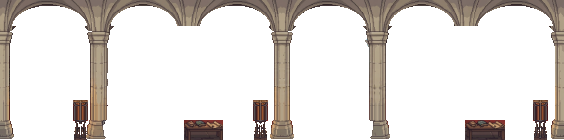
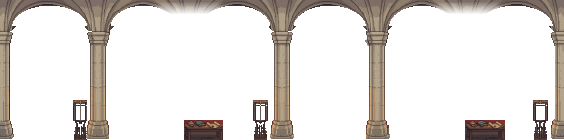
模擬戰鬥: 新增聖教城領(城堡大廳)場景,場景名稱與順序改為大地圖
- bg_09/fg_09 定稿(前景拱廊淡出、柱腳補齊、火盆挖空、地毯重鋪、火爐前地面柔化)
- 火焰/光暈由程式畫,前景火焰在前景層後方
- 場景:怪物森林/魔晶礦洞/塵嵐荒漠/幽暗墓穴/凜冬雪山/聖教城領/熔岩火原/惡魔王城

Claude-Session: https://claude.ai/code/session_01VgWDma9wRVh94nUCbzKnsT

diff --git a/battle/index.html b/battle/index.html
@@ -42,7 +42,7 @@ button{font:inherit;color:inherit}
   <p class="hint">預覽模式：只是看看戰鬥畫面，不會消耗體力，也不會獲得任何獎勵。</p>
   <div id="loading">讀取資料中…</div>
   <div class="frame" id="frame" hidden>
-   <div class="sky" id="sky"><canvas id="skc" width="418" height="280"></canvas></div><div class="bg" id="bg"></div><canvas id="fxc" style="position:absolute;left:0;top:0;width:100%;height:100%;pointer-events:none"></canvas><div class="sky" id="sky2" style="background:none;pointer-events:none"><canvas id="skc2" width="418" height="280"></canvas></div><div class="fgl" id="fgl"></div><canvas id="fxf" style="position:absolute;left:0;top:0;width:100%;height:100%;pointer-events:none;z-index:201"></canvas>
+   <div class="sky" id="sky"><canvas id="skc" width="418" height="280"></canvas></div><div class="bg" id="bg"></div><canvas id="fxc" style="position:absolute;left:0;top:0;width:100%;height:100%;pointer-events:none"></canvas><div class="sky" id="sky2" style="background:none;pointer-events:none"><canvas id="skc2" width="418" height="280"></canvas></div><canvas id="fxm" style="position:absolute;left:0;top:0;width:100%;height:100%;pointer-events:none;z-index:199"></canvas><div class="fgl" id="fgl"></div><canvas id="fxf" style="position:absolute;left:0;top:0;width:100%;height:100%;pointer-events:none;z-index:201"></canvas>
   </div>
   <div class="panel"><h2>場景</h2><div class="seg" id="scs"></div><h2>怪物</h2><div class="seg" id="mks"></div></div>
   <p class="note" id="who"></p>
@@ -175,8 +175,9 @@ var BG={
  D:{src:AS+'bg_04.png?v=2',fg:AS+'fg_04.png?v=2',band:94,bw:564,bh:140,sky:'cave',fx:'lava'},
  E:{src:AS+'bg_05.png?v=2',fg:AS+'fg_05.png?v=2',mask:AS+'sky_mask_05.png?v=2',band:94,bw:552,bh:140,sky:'ice',cy:.22,fx:'snow'},
  F:{src:AS+'bg_06.png',fg:AS+'fg_06.png',band:94,bw:564,bh:140,sky:'cave',fx:'crypt',gl:{b:[],f:[]}},
- G:{src:AS+'bg_07.png',fg:null,band:94,bw:282,bh:140,sky:'cave',fx:'throne'}};
-var SCN=[['A','森林'],['B','礦坑'],['C','沙漠'],['F','墓穴'],['E','雪山'],['D','熔岩'],['G','王座廳']];
+ G:{src:AS+'bg_07.png',fg:null,band:94,bw:282,bh:140,sky:'cave',fx:'throne'},
+ H:{src:AS+'bg_09.png?v=2',fg:AS+'fg_09.png?v=2',band:96,bw:564,bh:140,sky:'cave',fx:'castle'}};
+var SCN=[['A','怪物森林'],['B','魔晶礦洞'],['C','塵嵐荒漠'],['F','幽暗墓穴'],['E','凜冬雪山'],['H','聖教城領'],['D','熔岩火原'],['G','惡魔王城']];
 var cur='A',off=0,lastNow=0,CLD=[];
 var COL=[46.8,38.8,22.8,14.8,54.7,30.8],ROW=[17,34,17,34,0,0],LEFT=[0,0,1,1,0,1];
 function posOf(i){return [COL[i],BG[cur].band+ROW[i]-(LEFT[i]?1.9:0)]}
@@ -248,13 +249,14 @@ function drawSky(now){var offPx=off/(frame.clientHeight/SKH)*1;sk.clearRect(0,0,
   CL.forEach(function(c){var x=c.x+now/1000*c.v+offPx*.06,w=c.s.width,o=((x%(SKW+w))+(SKW+w))%(SKW+w)-w;sk.drawImage(c.s,Math.round(o),Math.round(c.y*CYK))});
   sk2.clearRect(0,0,SKW,SKH);if(SKP.over){sk2.globalAlpha=.85;CL.forEach(function(c){var x=c.x+now/1000*c.v+offPx*.06,w=c.s.width,o=((x%(SKW+w))+(SKW+w))%(SKW+w)-w;sk2.drawImage(c.s,Math.round(o),Math.round(c.y*CYK))});sk2.globalAlpha=1}drawFx(now)}
 /* ---- fx ---- */
-var fxc=$('fxc'),fxx=fxc.getContext('2d'),fxf=$('fxf'),fxg=fxf.getContext('2d');
+var fxc=$('fxc'),fxx=fxc.getContext('2d'),fxf=$('fxf'),fxg=fxf.getContext('2d'),fxm=$('fxm'),fxn=fxm.getContext('2d');
 function hsh(a,b){var x=Math.sin(a*127.1+b*311.7)*43758.5453;return x-Math.floor(x)}
 var SMK=[[93,36],[211,10],[341,8],[388,20],[491,7]],POOL=[[2,62,74,84],[521,562,74,84],[190,420,70,76]],EMBC=['255,190,70','255,130,40','255,90,30','255,220,120'];
 function drawFx(now){var W=frame.clientWidth,H=frame.clientHeight;if(fxc.width!==W||fxc.height!==H){fxc.width=W;fxc.height=H}
-  if(fxf.width!==W||fxf.height!==H){fxf.width=W;fxf.height=H}fxg.clearRect(0,0,W,H);
+  if(fxf.width!==W||fxf.height!==H){fxf.width=W;fxf.height=H}fxg.clearRect(0,0,W,H);if(fxm.width!==W||fxm.height!==H){fxm.width=W;fxm.height=H}fxn.clearRect(0,0,W,H);
   fxx.clearRect(0,0,W,H);function tw0(){return tileW()}
   if(BG[cur].fx==='cave'||BG[cur].fx==='crypt'){drawGlow(now,W,H,tileW(),H/140);return}
+  if(BG[cur].fx==='castle'){drawCastle(now,W,H,tileW(),H/140);return}
   if(BG[cur].fx==='throne'){drawThr(now,W,H,tileW(),H/140);return}
   if(BG[cur].fx==='snow'){var o2=off%tw0(),tt=now/1000,Hh=H,Ww=W,ss=H/140;
     for(var i=0;i<96;i++){var ly=i%3,sp=[.05,.085,.14][ly],sz=[1,1,2][ly],par=[.12,.25,.45][ly],y=((tt*sp+hsh(i,2))%1)*(H+8)-4,x=hsh(i,3)*(W+60)+Math.sin(tt*(.5+hsh(i,4)*.8)+i)*[5,9,14][ly]-tt*[3,6,10][ly]-o2*par;x=(((x%(W+60))+(W+60))%(W+60))-30;
@@ -282,6 +284,19 @@ var FC0={o:'#39aa6f',m:'#6ff582',l:'#c4fb94',b:'#f1ffc8'};
 function flame(c,s,cx,base,h,wmax,t,ph,A,pal){var FC=pal||FC0;var H=Math.max(3,h+Math.round(Math.sin(t*6+ph)*.8+Math.sin(t*11.3+ph*1.7)*.6));
   for(var k=0;k<H;k++){var f=k/(H-1),w=Math.max(1,wmax*(f<.2?1:1-(f-.2)/.8*.85)),hw=w/2,sw=A*f*f*(Math.sin(t*3.1+ph+f*1.8)*.7+Math.sin(t*5.3+ph*2+f*2.6)*.5),xc=cx+sw,xa=Math.round(xc-hw+.5),xb=Math.max(xa,Math.round(xc+hw-.5));
     for(var x=xa;x<=xb;x++){var d=Math.abs(x+.5-xc)/(hw+.01),col=f>.78?FC.o:(d<.4&&f<.62?(f<.28?FC.b:FC.l):(d<.8?FC.m:FC.o));px(c,s,x,base-k,col)}}}
+var CAS={bb:[[32.5,77],[316.5,77]],fp:[[272,80],[282,80],[297,77]],st:[80,260,539.5],pal:{o:'#d4501a',m:'#f58a1f',l:'#ffc13a',b:'#fff2a8'}};
+function drawCastle(now,W,H,tw,s){var t=now/1000,o=(off%tw)/s,o2=((off*1.35)%tw)/s;
+  fxx.globalCompositeOperation='lighter';
+  for(var tl=-1;tl<=2;tl++){var ox=tl*tw/s-o;
+    CAS.bb.forEach(function(b,i){var x=b[0]+ox;if(x*s<-40||x*s>W+40)return;var fl=.75+.25*Math.sin(t*6+i*2);glowRing(fxx,s,x,b[1]-4,10,'255,140,50',.17*fl)});
+    CAS.fp.forEach(function(b,i){var x=b[0]+ox;if(x*s<-40||x*s>W+40)return;var fl=.85+.15*Math.sin(t*8+i);glowRing(fxx,s,x,b[1],10,'255,120,40',.2*fl)})}
+  fxx.globalCompositeOperation='source-over';
+  for(var tl2=-1;tl2<=2;tl2++){var ox2=tl2*tw/s-o;
+    CAS.bb.forEach(function(b,i){var x=b[0]+ox2;if(x*s<-40||x*s>W+40)return;flame(fxx,s,x,b[1],8,6,t,i*3+1,1.2,CAS.pal)})}
+  for(var tl3=-1;tl3<=2;tl3++){var ox3=tl3*tw/s-o2;
+    CAS.st.forEach(function(sx,i){var x=sx+ox3;if(x*s<-40||x*s>W+40)return;flame(fxn,s,x,120,12,7,t,i*5+2,1.0,CAS.pal);
+      fxg.globalCompositeOperation='lighter';glowRing(fxg,s,x,111,12,'255,170,70',.12);fxg.globalCompositeOperation='source-over'})}
+}
 function drawThr(now,W,H,tw,s){var t=now/1000,o=(off%tw)/s;
   fxx.globalCompositeOperation='lighter';
   for(var tl=-1;tl<=2;tl++){var ox=tl*tw/s-o;

diff --git a/assets/battle/readme.md b/assets/battle/readme.md
@@ -19,3 +19,6 @@
 - 王座廳(bg_07):已完成,紅毯拉高、不切前景;fx_07.json=蠟燭/火盆會晃動的火焰(程式畫)、石像鬼紅眼微光、綠色光暈。暫存剩 bg_08、bg_09。
 
 - 城堡大廳(bg_09):第一版完成,前景拱廊 fg_09(5 柱+圓拱+書桌+篝火架)+補好的後景;fx_09.json=火焰/光暈/補圖說明與待修清單。暫存剩 bg_08。
+
+- 聖教城領 = 城堡大廳(bg_09 + fg_09)已定稿並接進模擬戰鬥(場景 H):前景拱廊在沒有柱子的兩處頂端向上淡出(柱頂保留)、第 2/3 根柱腳補齊;前景火盆圓桶中間挖空(只留鐵框),火焰畫在前景層後面(程式畫);地毯重鋪成 47px 週期、清掉殘線,火爐前地面柔化。至此各區域都有戰鬥背景。
+- 模擬戰鬥場景名稱與順序改為大地圖:怪物森林(bg_01)、魔晶礦洞(bg_02)、塵嵐荒漠(bg_03)、幽暗墓穴(bg_06)、凜冬雪山(bg_05)、聖教城領(bg_09)、熔岩火原(bg_04)、惡魔王城(bg_07 暫代,bg_08 魔王城尚未精修)。
